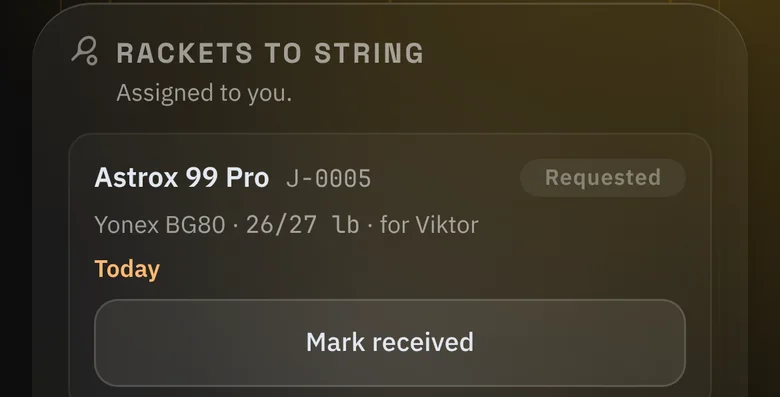
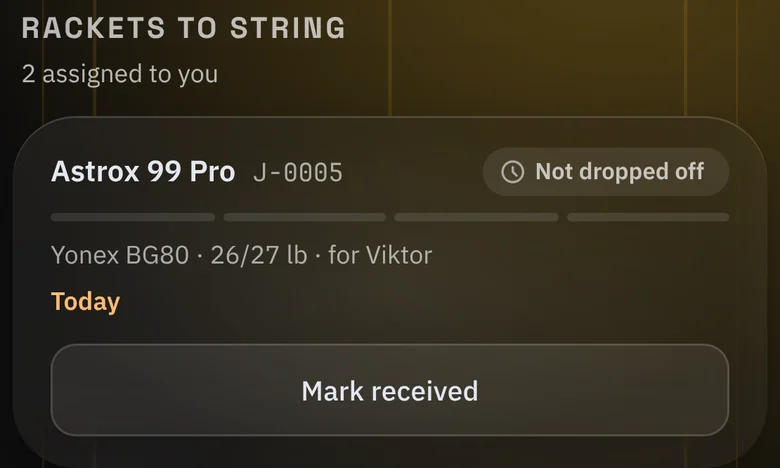
Media: new stringer crops, fill-only promo, browser time offset
- Recut the four /stringers crops from the November stringer screens and
  make the due-label tile fill-only, as the app's containers are.
- The promo video's chat card, detail tiles and closing button follow the
  app: tints instead of outlines, the gradient primary button, and
  "Free during the beta".
- Capture scripts take Vancouver's UTC offset from the browser that takes
  the screenshots. Node's tzdata 2026e and this Chromium disagree about
  November 2026 (-07:00 vs -08:00), so a 7:30 PM session read 6:30 PM.

Claude-Session: https://claude.ai/code/session_0124jVFofcbhfewtEvizFWTD

diff --git a/video/src/Promo.tsx b/video/src/Promo.tsx
@@ -60,8 +60,7 @@ function Problem() {
             gap: 16,
             padding: 32,
             borderRadius: 24,
-            border: '1.5px solid rgba(255,255,255,0.12)',
-            background: 'linear-gradient(160deg, rgba(255,255,255,0.06), rgba(255,255,255,0.02))',
+            background: 'rgba(255,255,255,0.05)',
           }}
         >
           {CHAT.map((m, i) => {
@@ -232,7 +231,7 @@ function Details() {
         <div style={{ display: 'grid', gridTemplateColumns: 'repeat(4, 1fr)', gap: 28 }}>
           {DETAILS.map(([t, b], i) => (
             <Rise key={t} start={22 + i * 8}>
-              <div style={{ borderTop: `1.5px solid ${C.divider}`, paddingTop: 26, display: 'flex', flexDirection: 'column', gap: 10 }}>
+              <div style={{ background: C.tile, borderRadius: 24, padding: 30, height: '100%', display: 'flex', flexDirection: 'column', gap: 10 }}>
                 <div style={{ fontFamily: FONT.display, fontWeight: 600, fontSize: 36 }}>{t}</div>
                 <div style={{ fontSize: 26, lineHeight: 1.4, color: C.text2 }}>{b}</div>
               </div>
@@ -255,7 +254,7 @@ function Cta() {
           <Headline size={100}>Get your group on the court.</Headline>
         </Rise>
         <Rise start={18}>
-          <Body size={36}>Free. iPhone and Android beta, or in your browser.</Body>
+          <Body size={36}>Free during the beta. iPhone and Android, or in your browser.</Body>
         </Rise>
         <Rise start={28}>
           <div
@@ -263,8 +262,9 @@ function Cta() {
               marginTop: 12,
               padding: '18px 34px',
               borderRadius: 14,
-              background: '#22c55e',
-              color: '#052e16',
+              background: 'linear-gradient(160deg, rgba(74,222,128,0.55) 0%, rgba(22,163,74,0.4) 100%)',
+              border: '1.5px solid rgba(74,222,128,0.45)',
+              color: '#fff',
               fontFamily: FONT.mono,
               fontWeight: 700,
               fontSize: 34,

diff --git a/app/stringers/page.tsx b/app/stringers/page.tsx
@@ -51,7 +51,7 @@ const BENCH: { t: string; b: string; media: Media }[] = [
   {
     t: 'Every racket on one bench',
     b: 'Jobs move from Requested to Picked up, one tap at a time, with Undo if you tap the wrong one. Switch between your jobs and everyone’s.',
-    media: { kind: 'img', src: '/media/crops/bench-list.webp', alt: 'Two jobs on the BPM stringing bench with their status and due date, under a Mine / All switch' },
+    media: { kind: 'img', src: '/media/crops/bench-list.webp', alt: 'A job on the BPM stringing bench with its status, progress and due date, under a Mine / All switch' },
   },
   {
     t: 'Due dates you can see',
@@ -116,7 +116,7 @@ function TileMedia({ media }: { media: Media }) {
           ['Viktor', 'Today', '#fbbf24'],
           ['Lin', 'Tomorrow', '#fbbf24'],
         ].map(([n, d, c]) => (
-          <li key={n} className="flex items-center justify-between rounded-xl border border-white/10 bg-white/[0.04] px-3.5 py-2.5 text-[14px] text-[#e8ecf1]">
+          <li key={n} className="flex items-center justify-between rounded-xl bg-white/[0.07] px-3.5 py-2.5 text-[14px] text-[#e8ecf1]">
             <span>{n}</span>
             <span className="font-semibold" style={{ color: c }}>
               {d}

diff --git a/video/src/ui.tsx b/video/src/ui.tsx
@@ -18,13 +18,15 @@ export const FONT = {
 export const C = {
   bg: '#100f0f',
   text: '#e8ecf1',
-  text2: 'rgba(255,255,255,0.68)',
+  text2: 'rgba(255,255,255,0.7)',
   text3: 'rgba(255,255,255,0.5)',
   green: '#4ade80',
   amber: '#fbbf24',
   blue: '#60a5fa',
   orange: '#fb923c',
   divider: 'rgba(255,255,255,0.08)',
+  // Fill-only containers, as in the app: a tint, never an outline.
+  tile: 'rgba(255,255,255,0.045)',
 };
 
 export type Hue = 'green' | 'amber' | 'blue' | 'orange';
